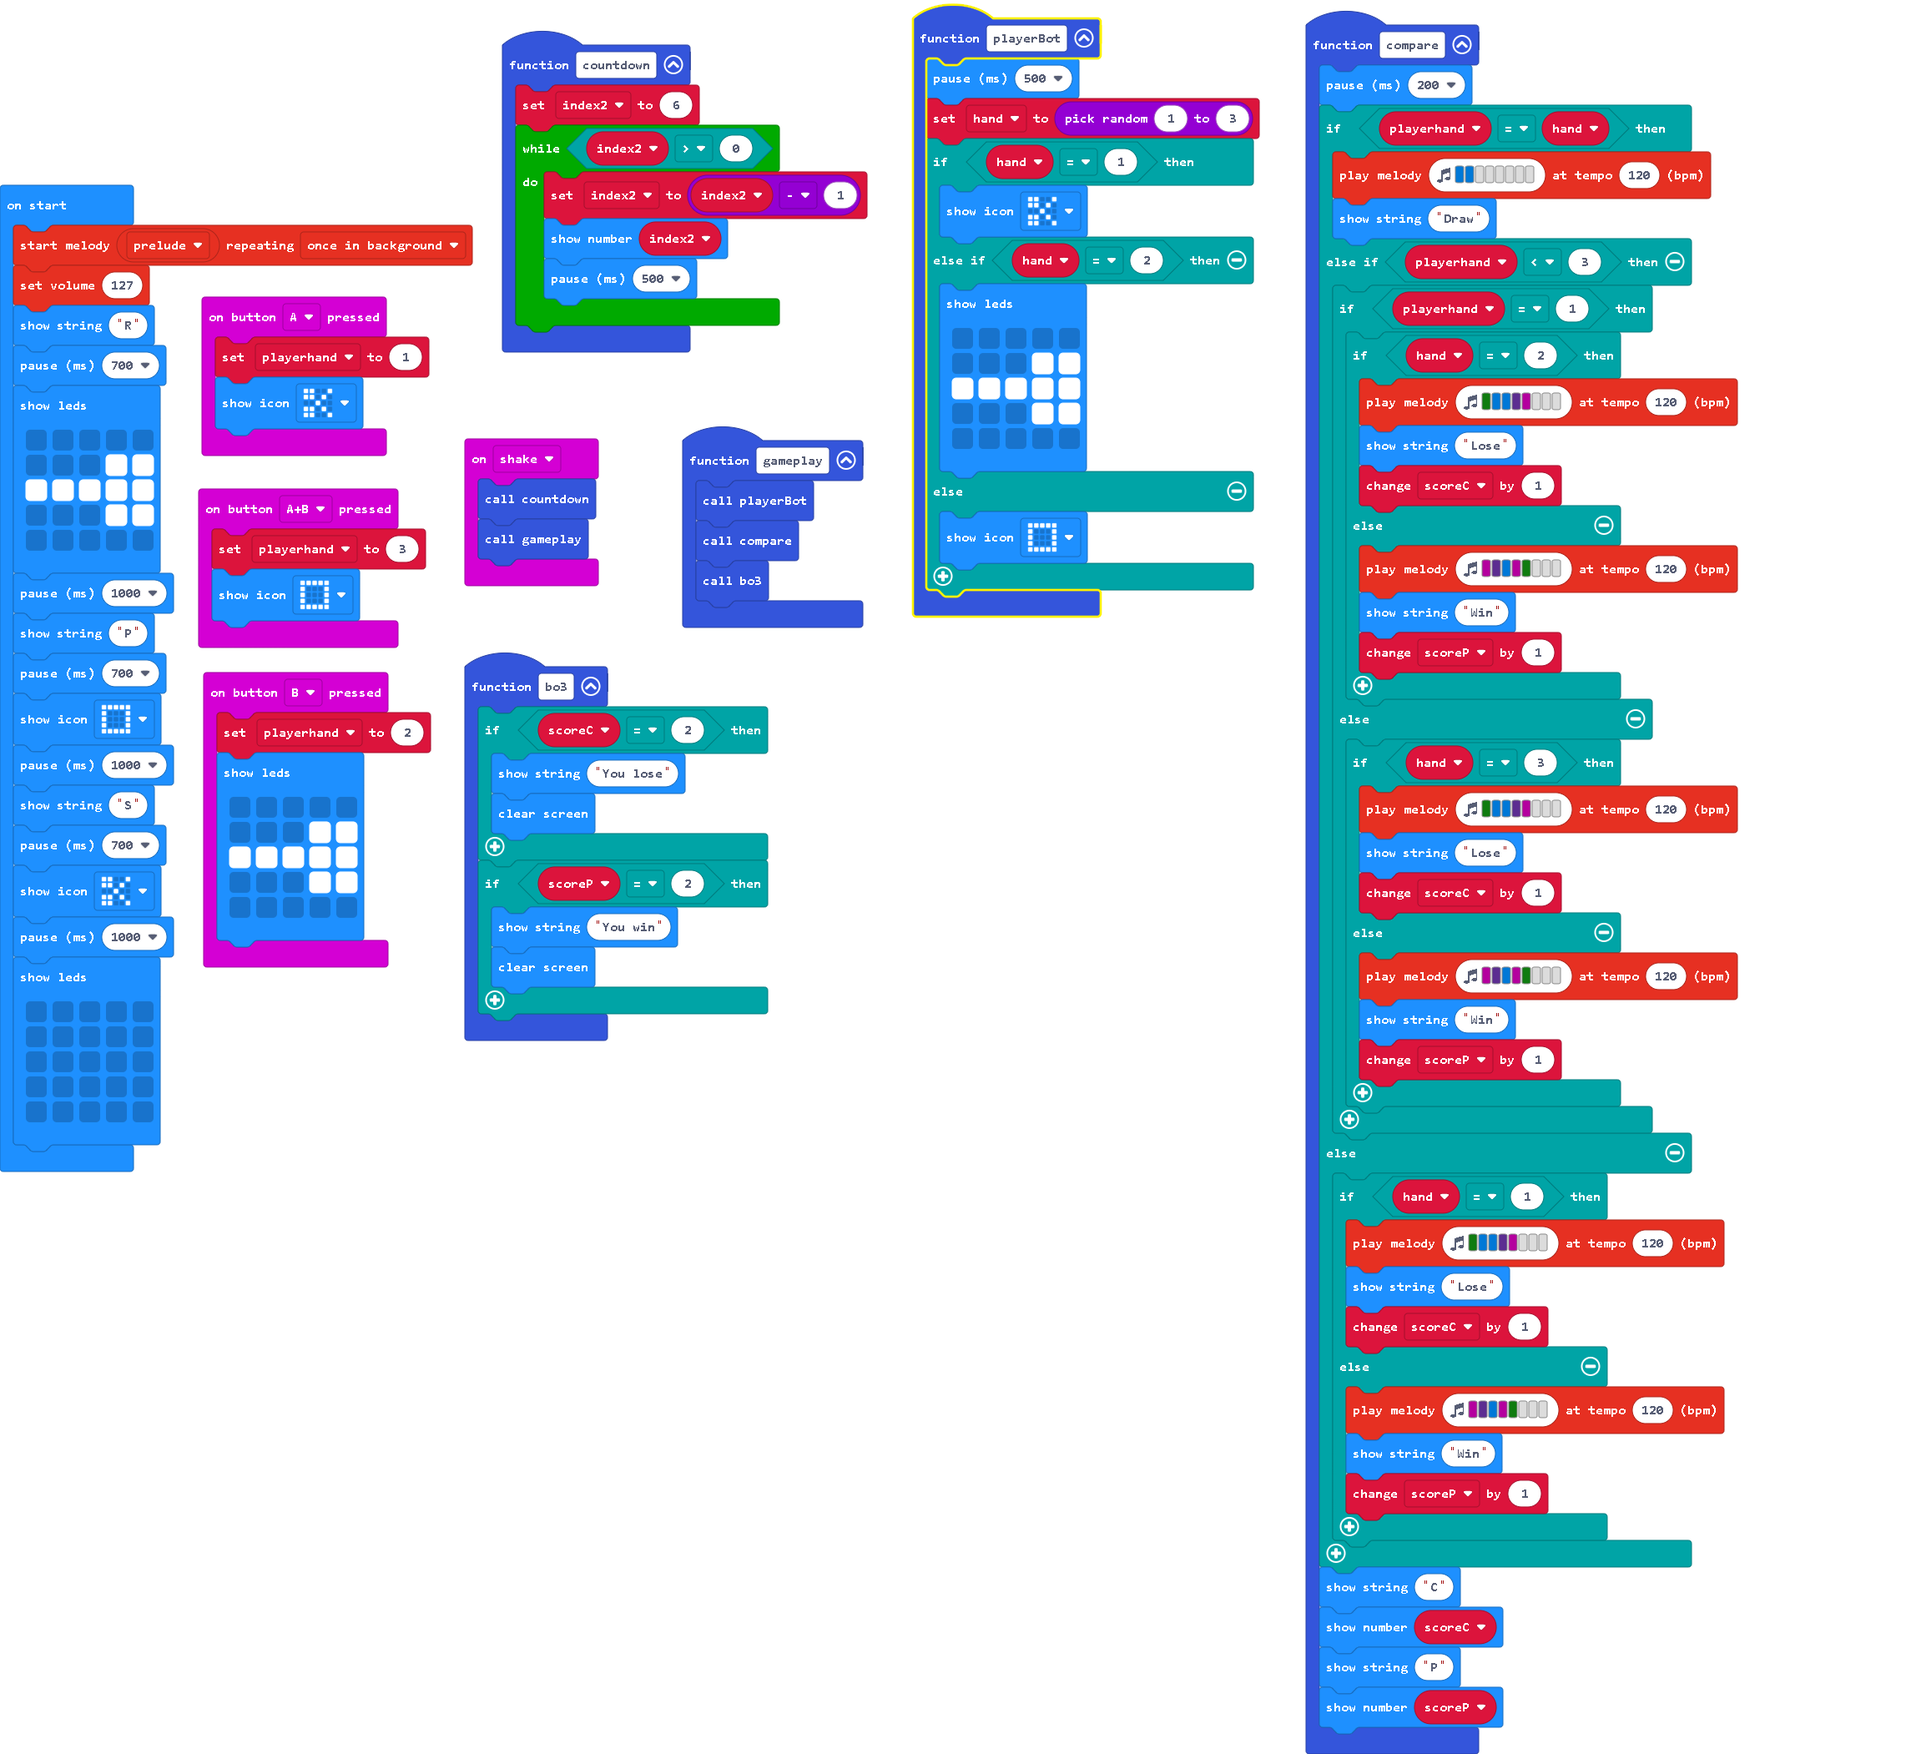
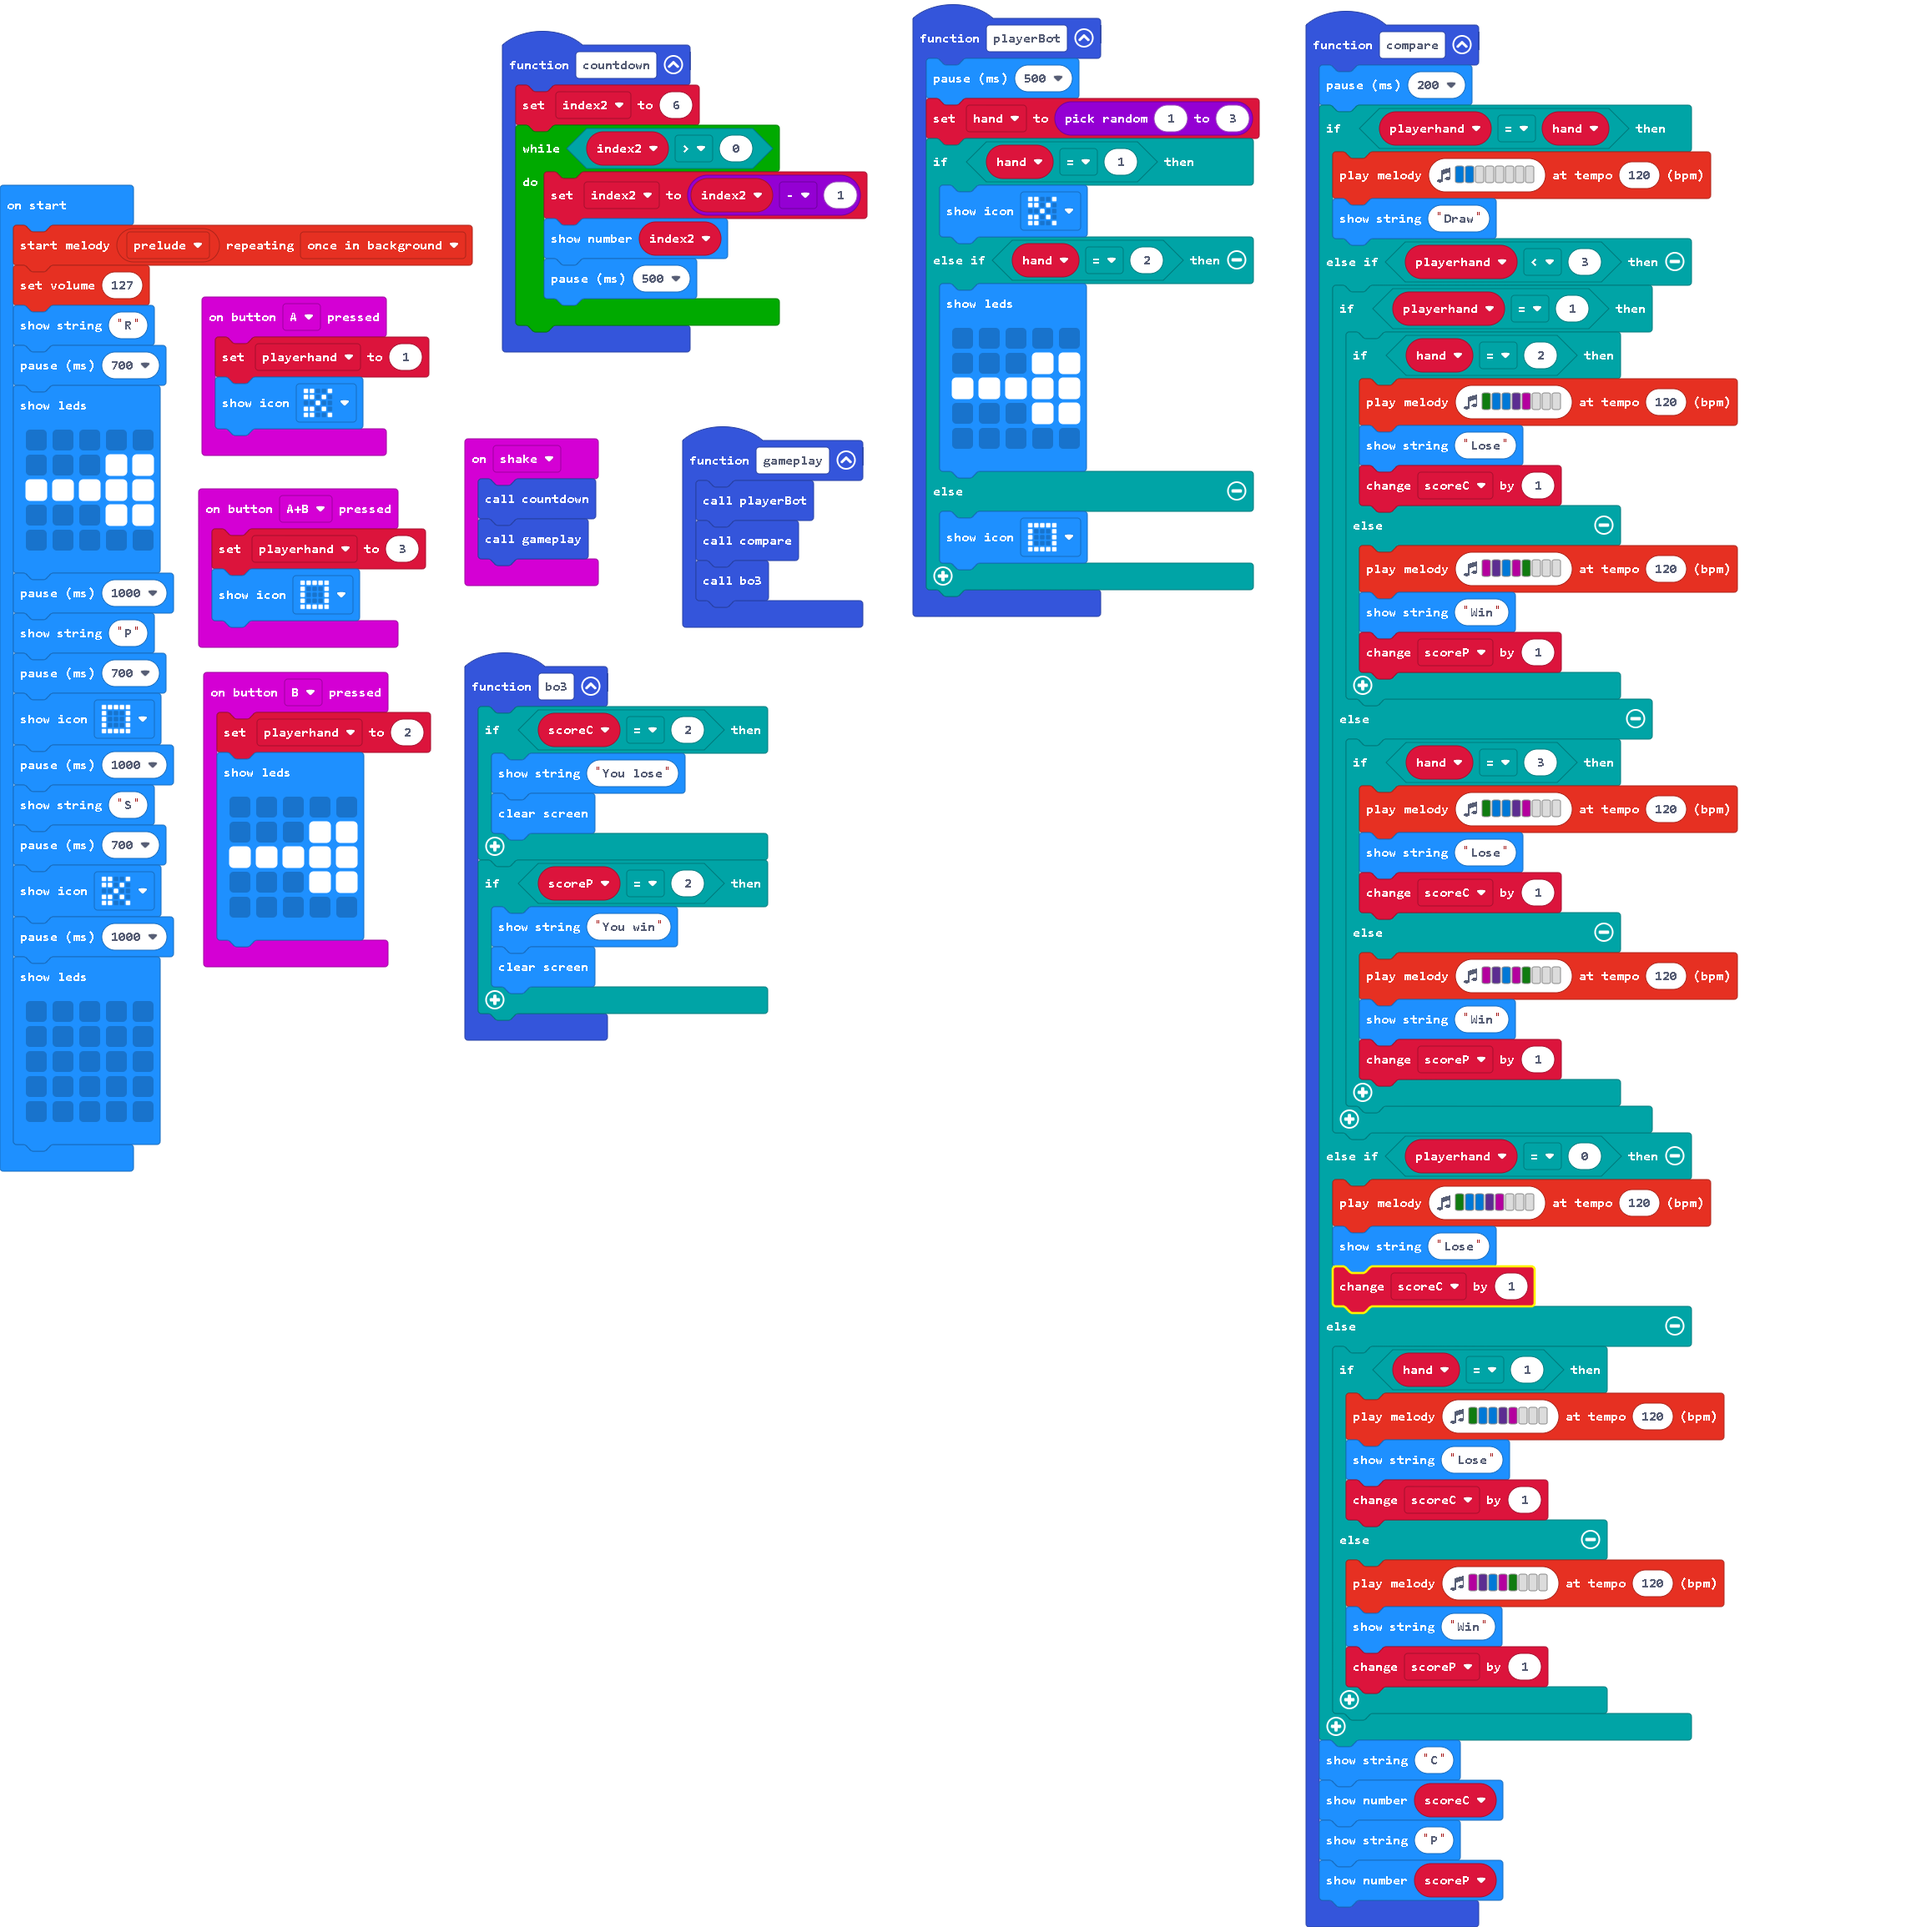
add "lose" if user click "shake" instead of other button A,B, or A and B

Changed region(s): [[0.0, 0.0, 0.9301, 0.9895]]

diff --git a/main.ts b/main.ts
@@ -25,6 +25,10 @@ function compare () {
                 scoreP += 1
             }
         }
+    } else if (playerhand == 0) {
+        music.playMelody("G E E D C - - - ", 120)
+        basic.showString("Lose")
+        scoreC += 1
     } else {
         if (hand == 1) {
             music.playMelody("G E E D C - - - ", 120)
